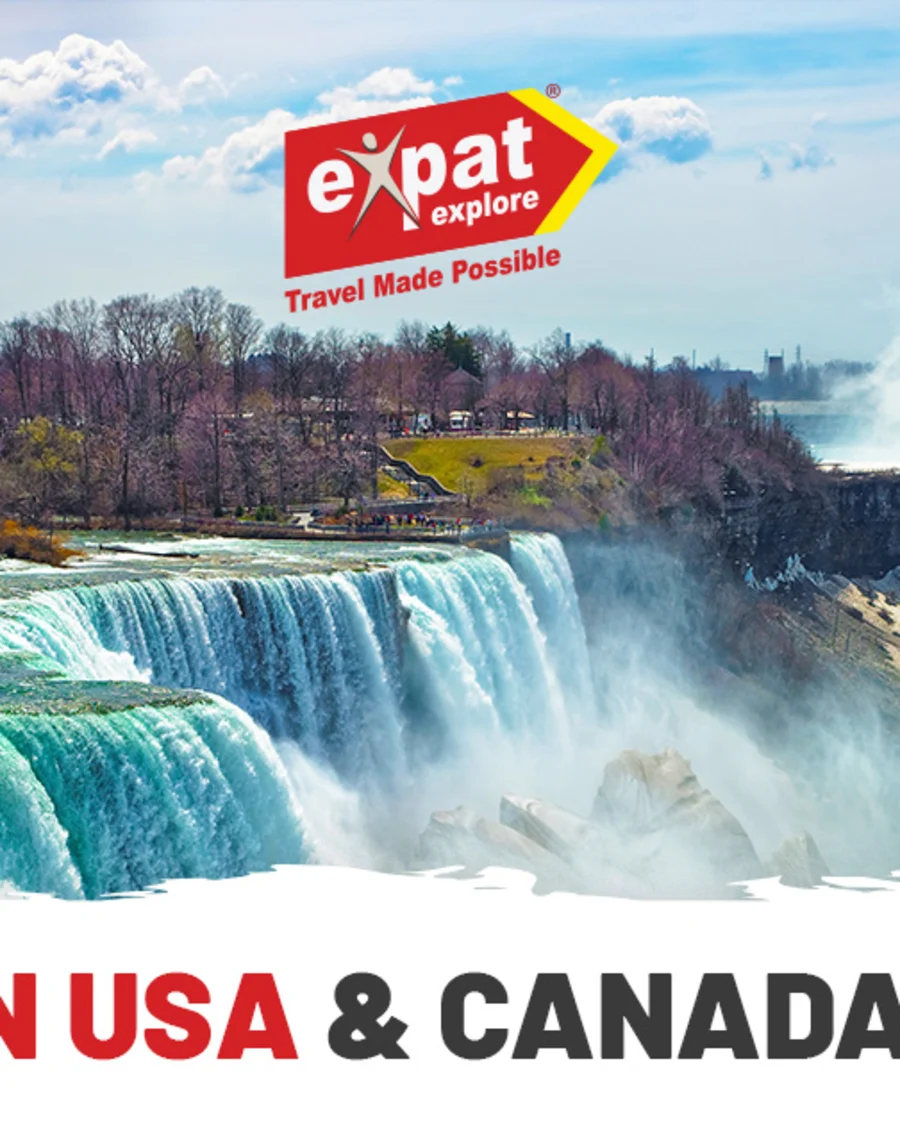
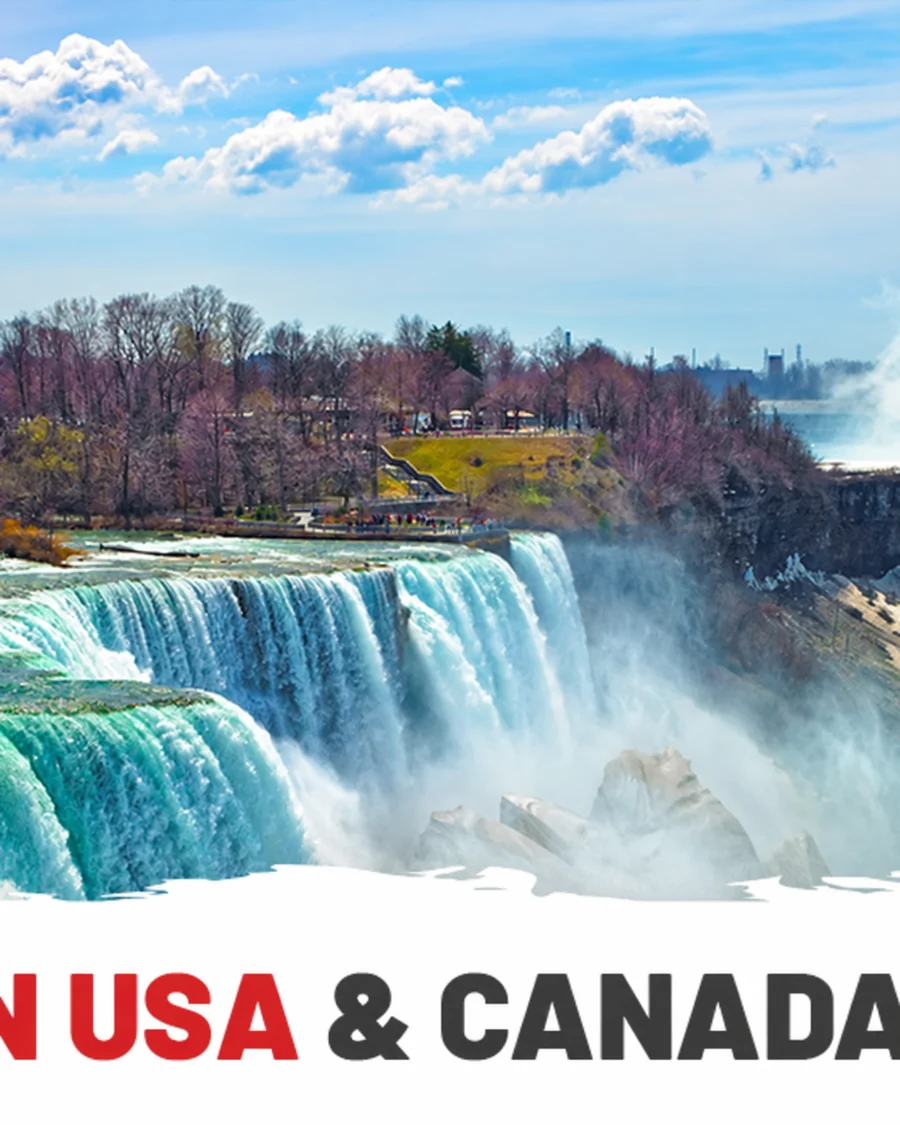
Remove source branding from international packages

diff --git a/src/data/international-tours.js b/src/data/international-tours.js
@@ -11,7 +11,7 @@ const makeDays = (rows) =>
     place,
     activities: place.toLowerCase().includes("free day")
       ? `Explore ${landmarks.split(",")[0]} independently, or choose from the optional experiences available on this departure.`
-      : `Follow the published Expat Explore programme through ${landmarks}, with guided orientation and scheduled free time along the route.`,
+      : `Follow the published tour programme through ${landmarks}, with guided orientation and scheduled free time along the route.`,
     landmarks,
     transport:
       index === 0 && /start of tour/i.test(place)
@@ -33,9 +33,7 @@ const included = [
 ];
 
 const excluded = [
-  "International flights",
-  "Visas and travel authorisations",
-  "Travel insurance",
+  "Flight booking, visa fees and travel insurance are not included in the package.",
   "Optional excursions and experiences",
   "Airport transfers unless expressly listed",
   "Personal expenses and meals not listed",
@@ -46,7 +44,6 @@ export default [
     id: "expat-europe-taster",
     slug: "europe-taster",
     type: "international",
-    provider: "Expat Explore",
     region: "International",
     name: "Europe Taster",
     description:
@@ -88,7 +85,6 @@ export default [
     id: "expat-classic-europe",
     slug: "classic-europe",
     type: "international",
-    provider: "Expat Explore",
     region: "International",
     name: "Classic Europe",
     description:
@@ -144,7 +140,6 @@ export default [
     id: "expat-europe-escape",
     slug: "europe-escape",
     type: "international",
-    provider: "Expat Explore",
     region: "International",
     name: "Europe Escape",
     description:
@@ -199,7 +194,6 @@ export default [
     id: "expat-europe-explorer",
     slug: "europe-explorer",
     type: "international",
-    provider: "Expat Explore",
     region: "International",
     name: "Europe Explorer",
     description:
@@ -275,7 +269,6 @@ export default [
     id: "expat-eastern-usa-canada",
     slug: "eastern-usa-canada-escape",
     type: "international",
-    provider: "Expat Explore",
     region: "International",
     name: "Eastern USA & Canada Escape",
     description:
@@ -341,7 +334,6 @@ export default [
     id: "expat-eastern-usa-canada-new-york",
     slug: "eastern-usa-canada-escape-new-york",
     type: "international",
-    provider: "Expat Explore",
     region: "International",
     name: "Eastern USA & Canada Escape incl. New York",
     description:

diff --git a/src/App.jsx b/src/App.jsx
@@ -514,7 +514,7 @@ function AllPackages({ onOpen, requestedCategory, clearRequestedCategory, reques
             <p className="kicker">EVERY COMPLETE PACKAGE</p>
             <h2>All Vijay Tours</h2>
             <p>
-              {audit.tourRadarListings} current India packages + {audit.officialListings} official India tours + 6 Expat Explore international journeys, all with full details.
+              {audit.tourRadarListings} current India packages + {audit.officialListings} official India tours + 6 international journeys, all with full details.
             </p>
           </div>
         </div>
@@ -832,7 +832,7 @@ function CurrentDetail({ item, onBack, onEnquire }) {
           <ArrowLeft /> Back to all packages
         </button>
         <div className="detail-hero-copy">
-          <span>{isInternational ? `${item.provider?.toUpperCase() || 'INTERNATIONAL'} PACKAGE` : categoryFor(item)}</span>
+          <span>{isInternational ? 'INTERNATIONAL TOUR PACKAGE' : categoryFor(item)}</span>
           <h1>{item.name}</h1>
           <p>
             <MapPin />
@@ -972,7 +972,7 @@ function CurrentDetail({ item, onBack, onEnquire }) {
           <div className="source-note">
             <ShieldCheck />
             <p>
-              <b>{isInternational ? `${item.provider} source package` : 'Source-checked package'}</b>
+              <b>{isInternational ? 'Source-checked international package' : 'Source-checked package'}</b>
               <span>{isInternational ? 'The route, duration and package categories are organised from the source tour. Verify current departures, visas, prices and availability with the operator before booking.' : 'Package facts were organised from Vijay’s public listing. Verify live operational details before payment.'}</span>
             </p>
             {item.sourceUrl && (
